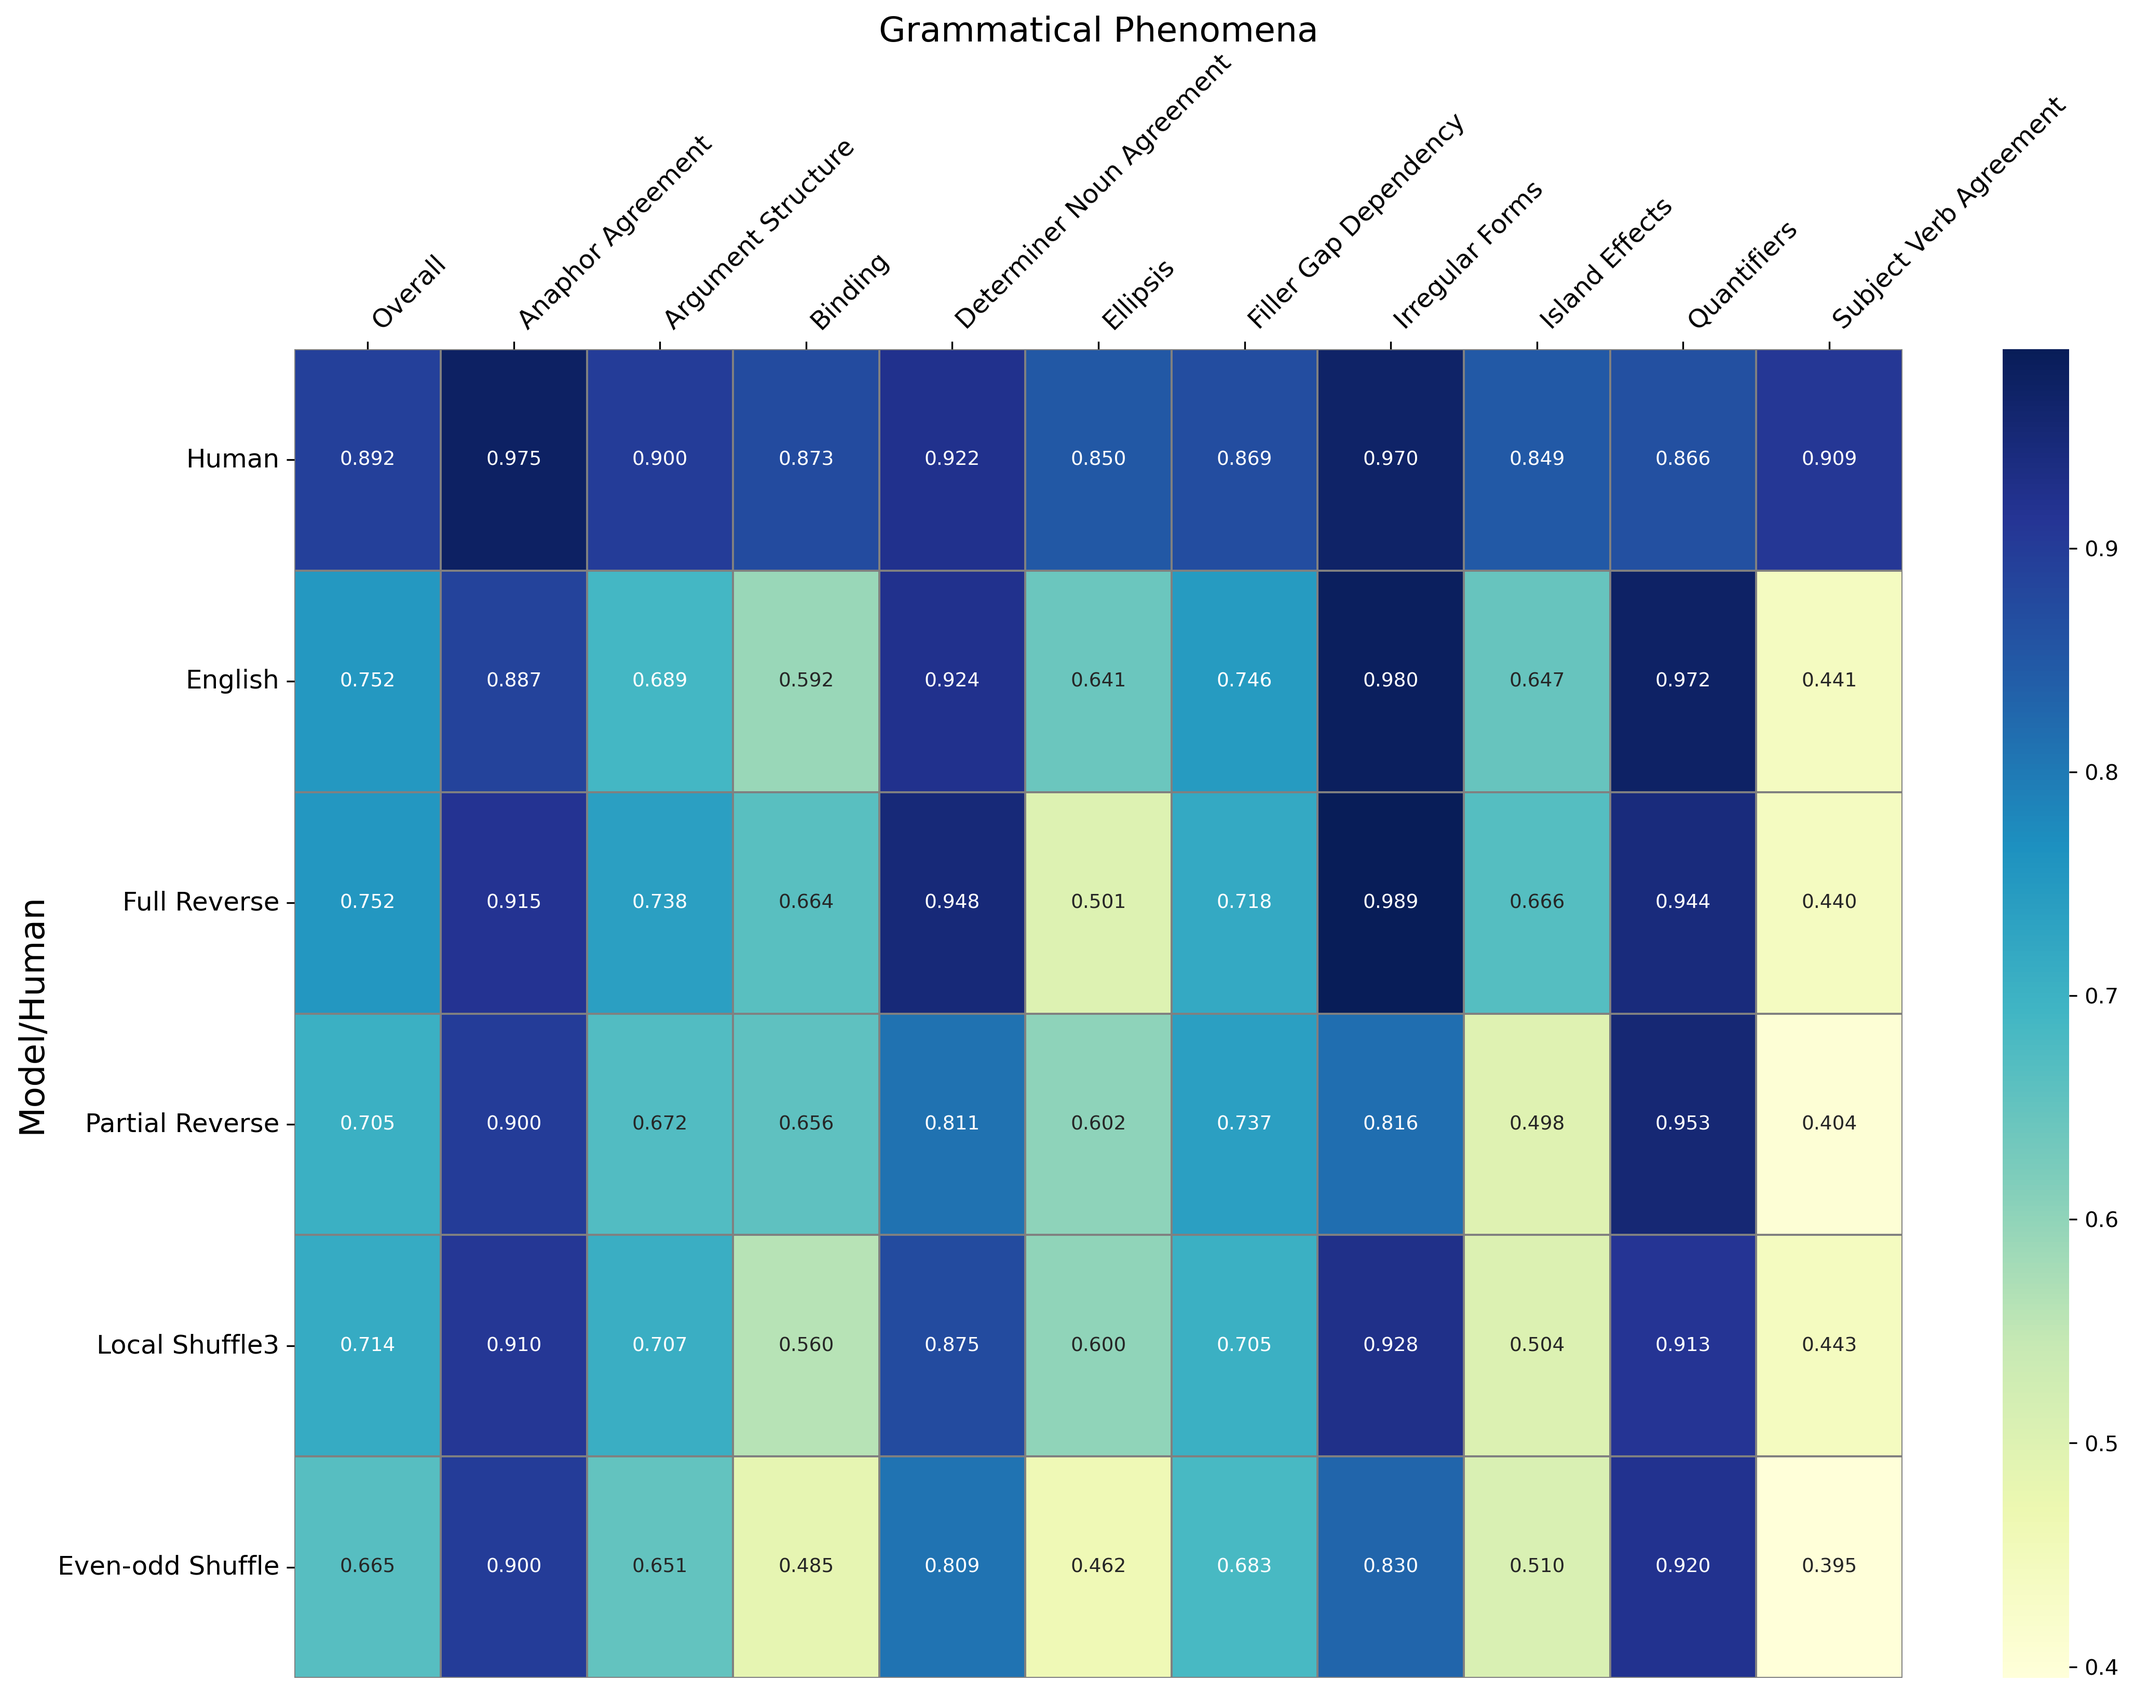
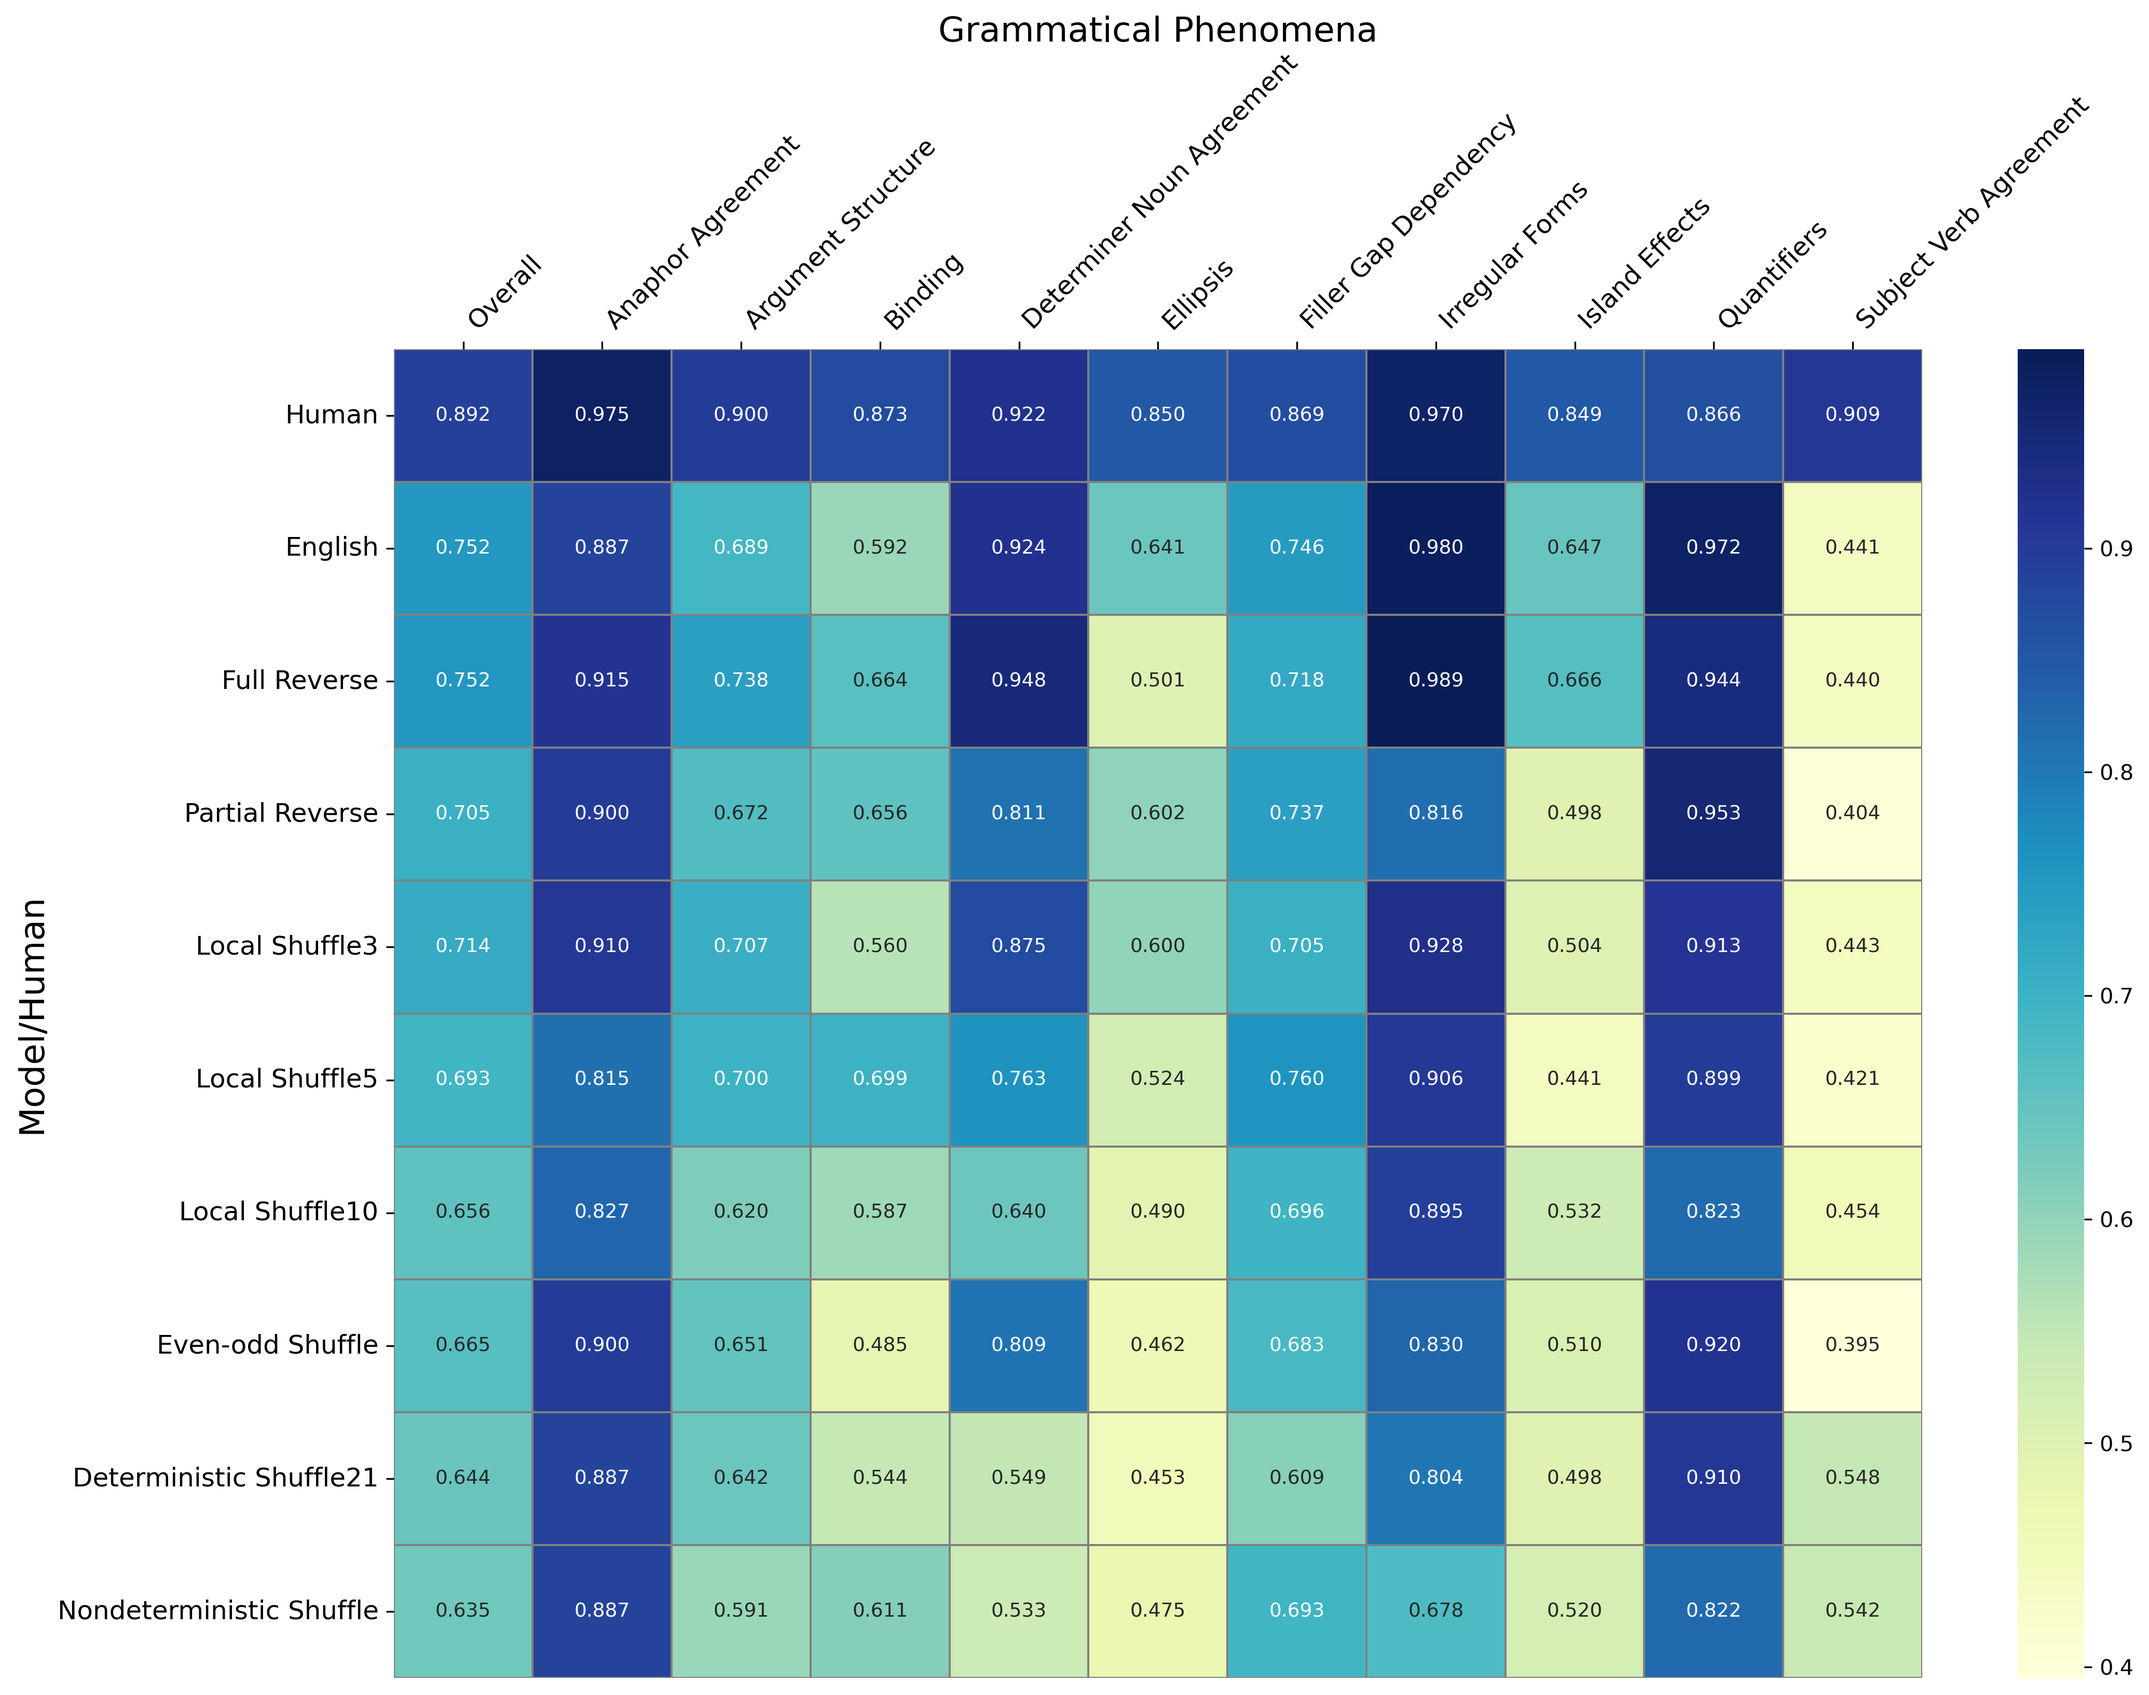
Update BLiMP comparison image

diff --git a/analysis/blimp_comparison.py b/analysis/blimp_comparison.py
@@ -52,9 +52,9 @@ def compare_model_performances():
     x_pos = np.arange(len(datasets))
     
     ax1.plot(x_pos, kallini_scores, 'o-', linewidth=2, markersize=8, 
-             label='Kallini GPT-2', color='#2E8B57', alpha=0.8)
+             label='Kallini GPT-2 model', color='#2E8B57', alpha=0.8)
     ax1.plot(x_pos, blimp_scores, 's-', linewidth=2, markersize=8, 
-             label='BLiMP GPT-2', color='#FF6347', alpha=0.8)
+             label='BLiMP GPT-2 model', color='#FF6347', alpha=0.8)
     
     ax1.set_xlabel('Datasets', fontsize=16, fontweight='bold')
     ax1.set_ylabel('Accuracy', fontsize=16, fontweight='bold')
@@ -183,10 +183,10 @@ def plot_blimp_heatmap(model_results_path='experiments/output/v2/results.csv',
         df_combined = df_combined.drop(columns=columns_to_drop)
     
     # Drop specific model rows
-    models_to_drop = ['Local Shuffle5', 'Local Shuffle10', 'Deterministic Shuffle21', 'Nondeterministic Shuffle']
-    rows_to_drop = [model for model in models_to_drop if model in df_combined.index]
-    if rows_to_drop:
-        df_combined = df_combined.drop(index=rows_to_drop)
+    # models_to_drop = [ 'Local Shuffle5', 'Local Shuffle10'] #'Deterministic Shuffle21', 'Nondeterministic Shuffle']
+    # rows_to_drop = [model for model in models_to_drop if model in df_combined.index]
+    # if rows_to_drop:
+    #     df_combined = df_combined.drop(index=rows_to_drop)
     
     # Plot heatmap
     plt.figure(figsize=(max(2 + len(PHENOMENA_ORDER) + 1, 12), max(1 + len(MODEL_ORDER) + 1, 10)))
